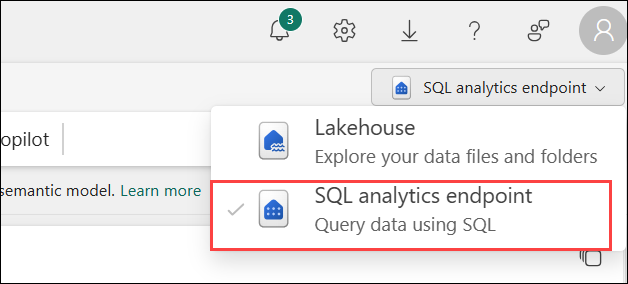
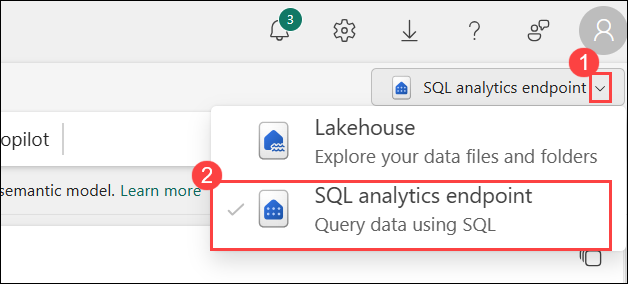
update

Changed region(s): [[0.9076, 0.169, 0.9984, 0.3662], [0.3025, 0.5634, 0.3631, 0.6761]]

diff --git a/masterdoc/10.md b/masterdoc/10.md
@@ -12,7 +12,7 @@ In this exercise, you will ingest additional dimensional and fact tables from th
 
 ## Task 1: Ingest data
 
-**Objective:** In this task you will import the Wide World Importers dataset into the lakehouse by setting up a data pipeline.
+**Objective:** In this task, you will import the Wide World Importers dataset into the lakehouse by setting up a data pipeline.
 
 1. Navigate to the **Fabric Lakehouse Tutorial** **<inject key="DeploymentID" enableCopy="false" />** Workspace, click on the **+ New item (1)** button and search for the **Data pipeline (2)** in the search bar and select **Data pipeline (3)** from the Get data blade.
 
@@ -26,7 +26,7 @@ In this exercise, you will ingest additional dimensional and fact tables from th
 
    ![add-pipeline-copy-data](../media/10/dp(3).png)
 
-1. Next, set up an HTTP connection to import the sample World Wide Importers data into the Lakehouse. In the **Choose data sources** list, search for and select **HTTP**.
+4. Next, set up an HTTP connection to import the sample World Wide Importers data into the Lakehouse. In the **Choose data sources** list, search for **Http (1)**, and select **Http (2)** from the New sources.
 
    ![add-pipeline-copy-data](../media/10/dp(4).png)
 
@@ -43,23 +43,23 @@ In this exercise, you will ingest additional dimensional and fact tables from th
 
    ![](../media/10/dp(5).png)
 
-5. In the next step, enable the **Binary copy (1)** and choose **ZipDeflate (.zip) (2)** as the **Compression type** since the source is a .zip file. Keep the other fields at their default values and click **Next (3)**.
+6. In the next step, enable the **Binary copy (1)** and choose **ZipDeflate (.zip) (2)** as the **Compression type** since the source is a .zip file. Keep the other fields at their default values and click **Next (3)**.
 
    ![add-pipeline-copy-data](../media/10/dp(6).png)
 
-1. In the **Choose data destination** tab, search for **Lakehouse (1)** and select **wwilakehouse (2)**.
+7. In the **Choose data destination** tab, search for **Lakehouse (1)** and select **wwilakehouse (2)**.
 
    ![add-pipeline-copy-data](../media/10/dp(7).png)
 
-7. In the **Connect to data destination** tab, select **Browse (1)** to choose the root folder, confirm by clicking **OK (2)**, and then click **Next (3)** to continue.
+8. In the **Connect to data destination** tab, select **Browse (1)** to choose the root folder, confirm by clicking **OK (2)**, and then click **Next (3)** to continue.
 
    ![add-pipeline-copy-data](../media/10/dp(8).png)
 
-8. In the **Review + save** tab, the copy summary should be set as **Binary to Binary**. Click **Save + Run**. You can schedule pipelines to refresh data periodically. In this tutorial, we only run the pipeline once. The data copy process takes approximately 10-15 minutes to complete.
+9. In the **Review + save** tab, the copy summary should be set as **Binary to Binary**. Click **Save + Run**. You can schedule pipelines to refresh data periodically. In this tutorial, we only run the pipeline once. The data copy process takes approximately 10-15 minutes to complete.
 
     ![add-pipeline-copy-data](../media/10/dp(9).png)
 
-9. You can monitor the pipeline execution and activity in the **Output** tab.
+10. You can monitor the pipeline execution and activity in the **Output** tab.
 
    ![add-pipeline-copy-data](../media/10/dp(10).png)
 

diff --git a/masterdoc/09.md b/masterdoc/09.md
@@ -100,11 +100,9 @@ By the end of this lab, you’ll have a full understanding of how to use Microso
 
    ![select-dataflow-gen2](../media/09/lh(2).png)
 
-1. In the **New Dataflow Gen2** dialogue box, provide the name as **Dataflow 1 (1)** and click on **Create (2)** to proceed.
+1. In the **New Dataflow Gen2** dialogue box, provide the name as **Dataflow 1 (1)**, **Uncheck (2)** the **Enable Git integration, deployment pipelines and Public API scenarios**, and click on **Create (3)** to proceed.
 
-   ![select-dataflow-gen2-1](../media/newdataflow-09-02.png)
-
-   >**Note:** Make sure to **Uncheck** the 'Enable Git integration, deployment pipelines and Public API scenarios'.
+   ![select-dataflow-gen2-1](../media/09/lh(2)(1).png)
 
 3. On the new dataflow pane, select **Import from a Text/CSV file**.
 
@@ -156,7 +154,7 @@ By the end of this lab, you’ll have a full understanding of how to use Microso
 
     ![data-destination-lakehouse](../media/09/lh(10).png) 
 
-14. In the **Choose destination settings**, click on **Save settings** to return to the dataflow canvas.
+14. In the **Choose destination settings** window, leave the settings unchanged and select **Save settings** to return to the dataflow canvas.
 
     ![replace-as-update-method-save-settings](../media/09/lh(11).png)
 
@@ -190,11 +188,11 @@ By the end of this lab, you’ll have a full understanding of how to use Microso
 
     >**Note:** If you are unable to view _dimension_customer_ delta table, please refresh the page.
 
-23. You can also use the SQL analytics endpoint of the lakehouse to query the data with SQL statements. Select **SQL analytics endpoint** from the Lakehouse drop-down menu at the top right of the screen.
+23. You can also use the SQL analytics endpoint of the lakehouse to query the data with SQL statements. From the Lakehouse **drop-down (1)** menu at the top right of the screen.Select **SQL analytics endpoint (2)** 
 
     ![sql-endpoint](../media/09/lh(19).png)  
 
-24. Click on the **drop-down (1)** and select **New SQL query (2)** to write your SQL statements.
+24. From the Home tab, click on the **drop-down (1)** and select **New SQL query (2)** to write your SQL statements.
 
     ![new-sql-query](../media/09/lh(20).png)
 
@@ -218,7 +216,7 @@ By the end of this lab, you’ll have a full understanding of how to use Microso
 
     ![select-lakehouse](../media/09/br(1).png)
 
-1.  From the drop-down in the top left corner, switch to the **SQL analytics endpoint** view.
+1.  From the **drop-down (1)** in the top left corner, switch to the **SQL analytics endpoint (2)** view.
 
     ![sql-endpoint](../media/09/lh(19).png)
 
